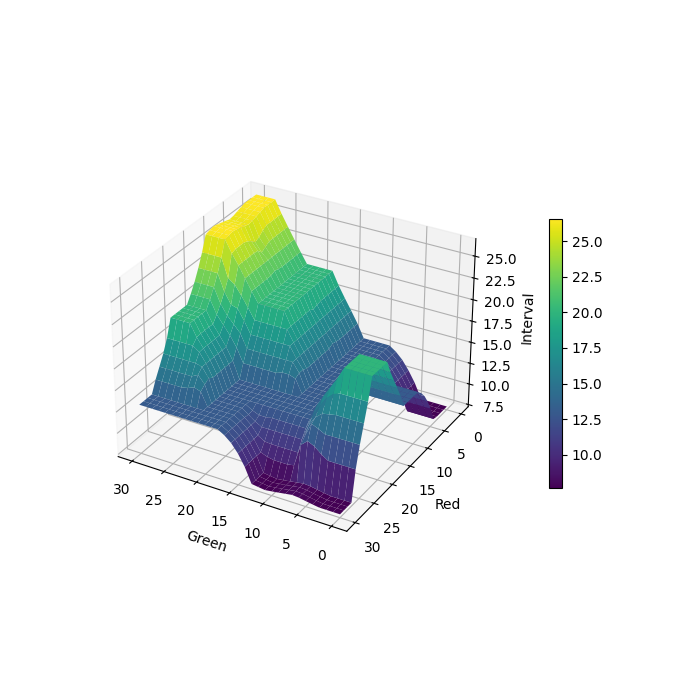
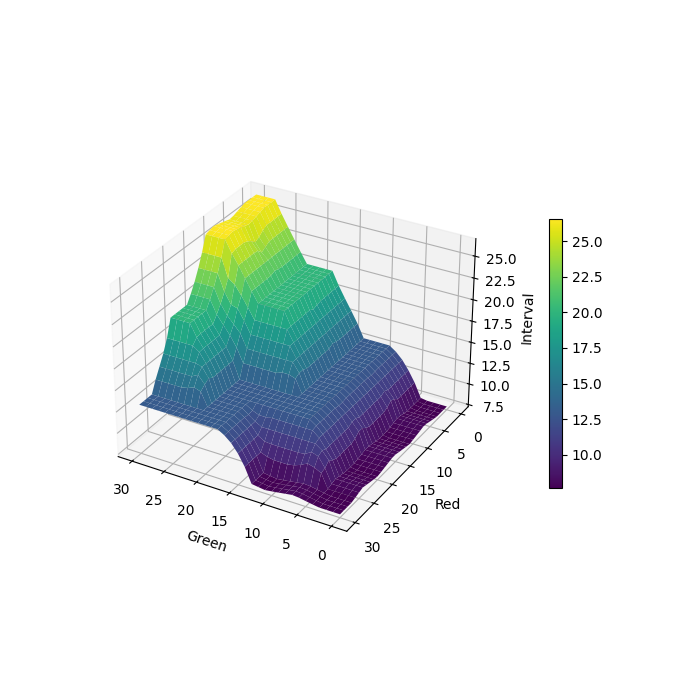
úprava 3D grafu + intervalov + test spojenia s Vissim-om

Changed region(s): [[0.42, 0.51, 0.63, 0.72]]

diff --git a/vissim_test.py b/vissim_test.py
@@ -1,0 +1,22 @@
+import win32com.client as com
+
+#spustíme cez vissim
+vissim = com.Dispatch("Vissim.Vissim.2026")
+
+#súbor s križovatkou
+vissim.LoadNet(r"C:\Users\Public\Documents\PTV Vision\PTV Vissim 2026\test.inpx")
+
+sim = vissim.Simulation
+sim.SetAttValue("RandSeed", 42)
+sim.SetAttValue("SimRes", 5)
+sim.SetAttValue("UseMaxSimSpeed", True)
+total = 0
+
+for step in range(3000):
+    sim.RunSingleStep()
+    vehicles = vissim.Net.Vehicles
+    if vehicles.Count > 0:
+        total = max(total, max(v[1] for v in vehicles.GetMultiAttValues("No")))
+
+sim.Stop()
+print("Celkovo aut:", total)

diff --git a/Fuzzy_system_intersection_test.py b/Fuzzy_system_intersection_test.py
@@ -34,8 +34,8 @@ interval['very long'] = fuzz.trapmf(interval.universe, [21, 26, 30, 30])
 #pravidlá - pomocou min pravidla
 rules = [
     ctrl.Rule(green['few'] & red['few'], interval['short']),
-    ctrl.Rule(green['few'] & red['normal'], interval['normal']),
-    ctrl.Rule(green['few'] & red['a lot'], interval['long']),
+    ctrl.Rule(green['few'] & red['normal'], interval['short']),
+    ctrl.Rule(green['few'] & red['a lot'], interval['short']),
     ctrl.Rule(green['few'] & red['very many'], interval['short']),
 
     ctrl.Rule(green['normal'] & red['few'], interval['normal']),
